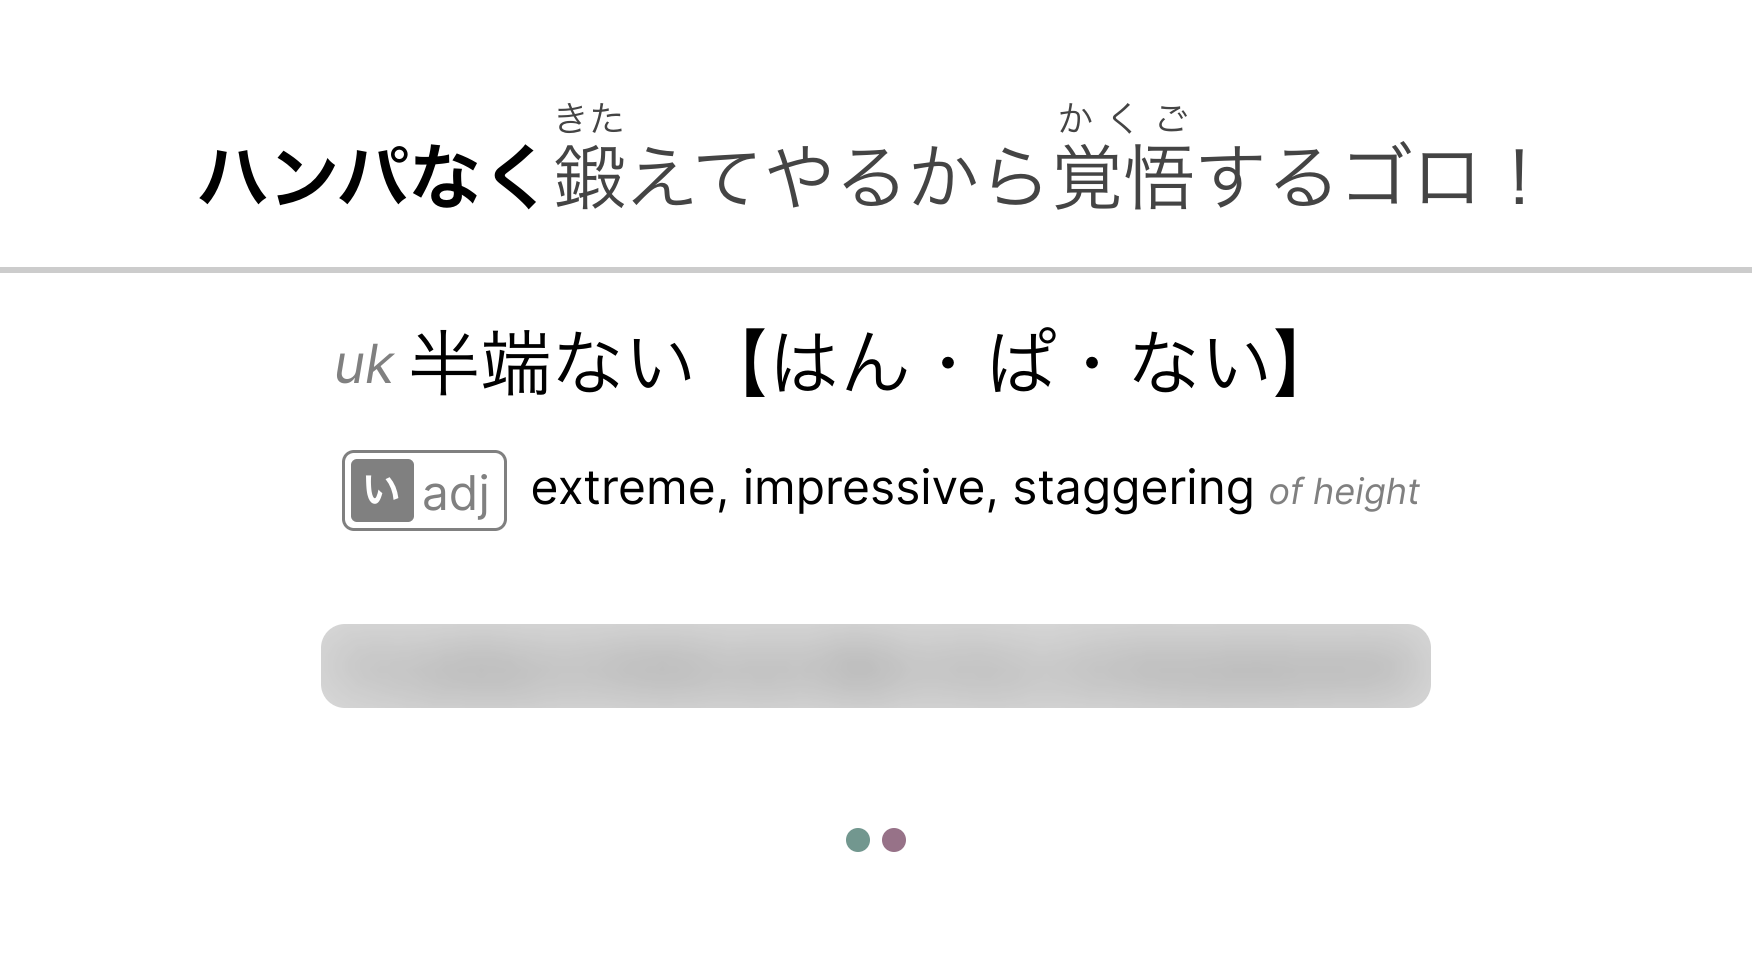
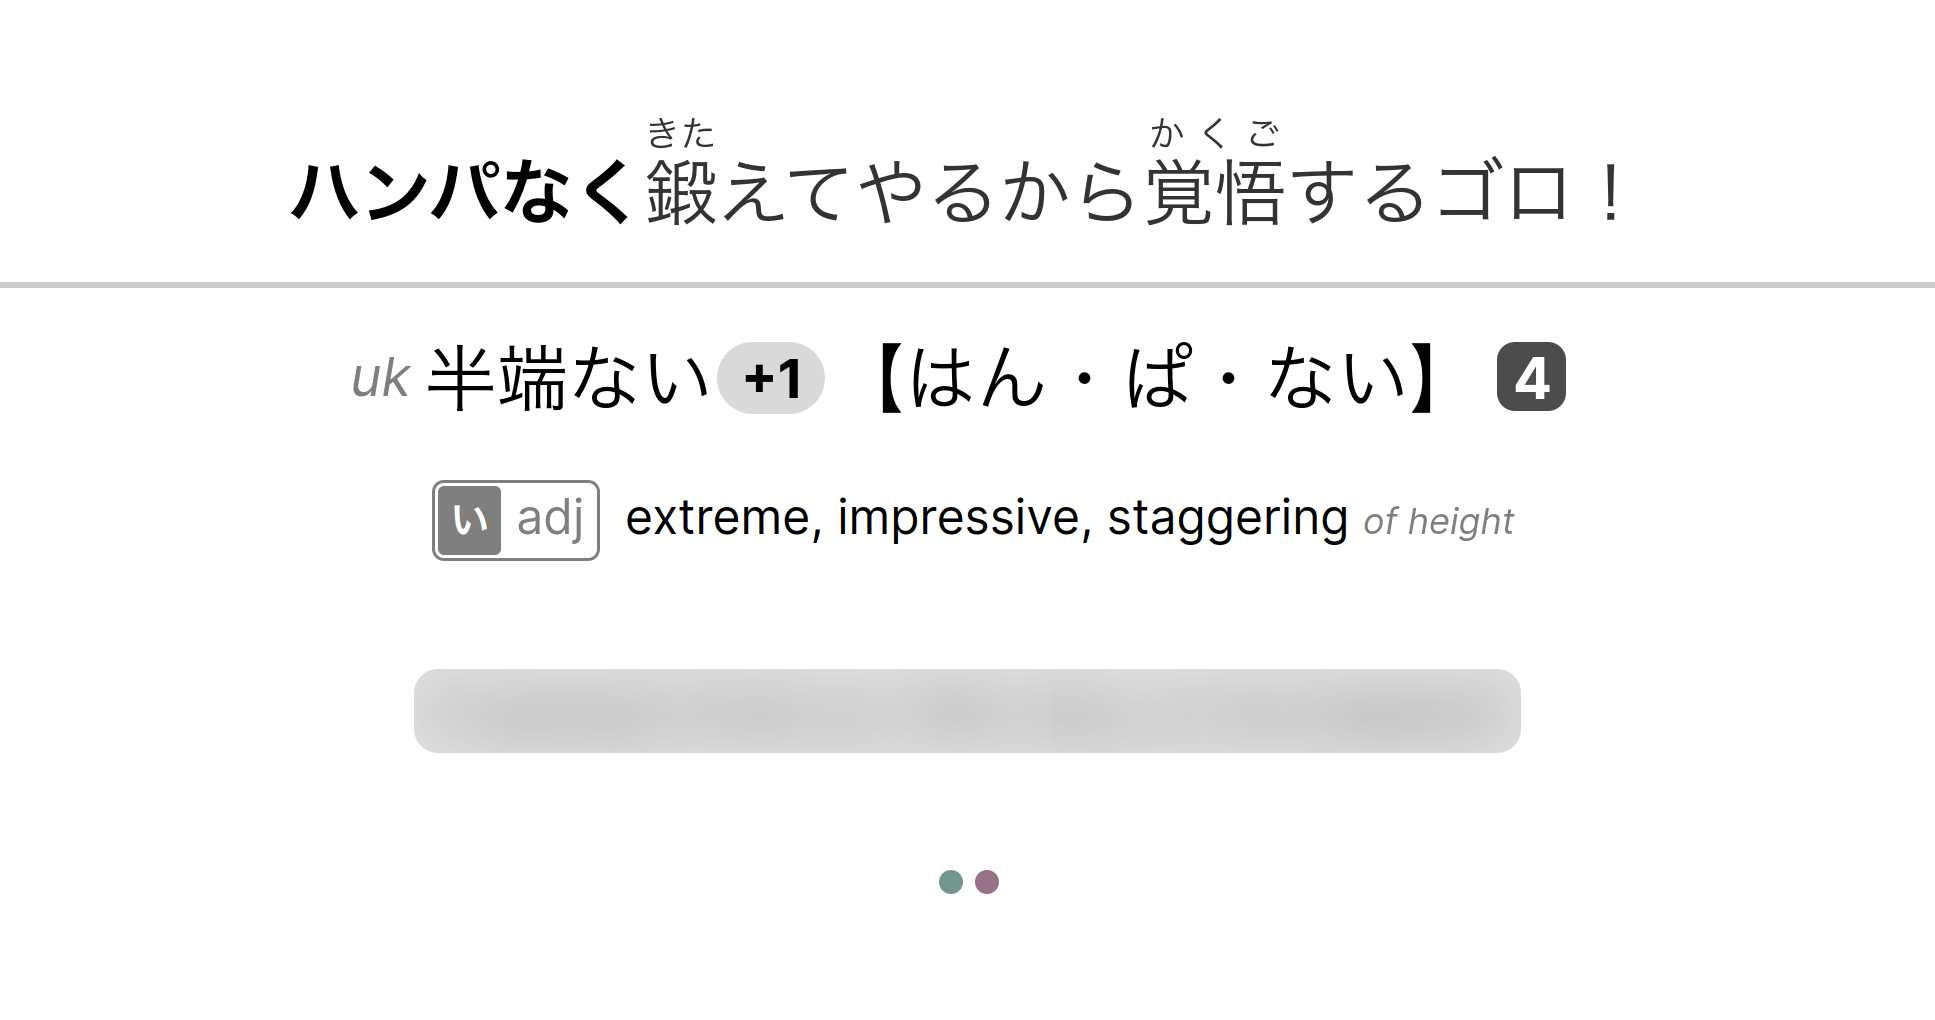
update readme

diff --git a/anki-card-template/readme.md b/anki-card-template/readme.md
@@ -9,9 +9,7 @@ that is visible on either both sides or only on the back side, spoilers,
 definition context hints, and word type indicators. it supports a vertical and
 horizontal layout, desktop and mobile, as well as light and dark themes.
 
-> currently, some css is slightly broken on the desktop version of anki, but
-> this should be fixed as qt merges a newer version of chromium (>= 105) into
-> the QTWebview library. this does not affect useability
+> animations are now working in desktop Anki >=2.1.62
 
 ## example
 
@@ -20,7 +18,7 @@ horizontal layout, desktop and mobile, as well as light and dark themes.
 |Field|Value|
 |-|-|
 |Complete sentence|`*ハンパなく*[鍛](きた)えてやるから[覚悟](かくご)するゴロ！`|
-|Target word reading|`半端ない【はん・ぱ・ない】(uk)`|
+|Target word reading|`半端ない、ハンパない【はん・ぱ・ない】[4] (uk)`|
 |Target word translation|`[い-adj] extreme, impressive, staggering {of height}`|
 |Complete sentence translation|`I'm going to train you like crazy, so be prepared!`|
 |Tags|`ゼルダの伝説 ブレス・オブ・ザ・ワイルド`|
@@ -29,14 +27,19 @@ horizontal layout, desktop and mobile, as well as light and dark themes.
 
 |![](../assets/card-front.png)|![](../assets/card-back-hidden.png)|![](../assets/card-back-visible.png)|
 |-|-|-|
-|front|back|spoiler & tag|
+|front|back|clicked sentence, hover tags, and hover reading|
+
+> Having a lot of information on a single card is generally discouraged, so the
+> sentence translation, tags and alternate writings are hidden by default and
+> can be shown when hovered/clicked.
 
 ## set-up
 
 i don't know how to create a teplate deck (if that's even a thing), so these
 are instructions to apply to an empty deck.
 
-1. run `make` to generate files
+1. run `make` to generate files (or download from [github
+   releases](https://github.com/lonkaars/refold-tools/releases))
 2. Under Tools > Manage note types > (note type here) > Fields, make sure the
    following fields exist (might be case-sensitive):
    | |name|description|
@@ -94,7 +97,7 @@ examples:
 |`\t`|(literal tab character)|
 |`\n`|html `<br>`|
 
-sensitive to the following characters: `[](){}`
+sensitive to the following characters: `*_`
 
 ### parse-furigana
 
@@ -112,8 +115,9 @@ sensitive to the following characters: `[](){}`
 
 ### parse-definitions
 
-parse list of definitions separated by commas, and convert text between curly
-brackets to subtile text. commas do not start a new definition inside subtile
+parse list of latin definitions separated by commas, or japanese definitions
+separated by japanese full stop, and convert text between curly brackets to
+subtile text. commas/full stops do not start a new definition inside subtile
 text and parenthesis, and are inserted normally.
 
 example:
@@ -121,13 +125,14 @@ example:
 |input|output|
 |-|-|
 |`word {subtile, or is it} (this is, a single item)\, and still is here, but not here`|<ul><li>word <i style="font-size: 70%">subtile, or is it</i> (this is, a single item), and still is here</li><li>but not here</li></ul>|
+|`単語定義１。定義２。`|<ul><li>単語定義１。</li><li>定義２。</li></ul>|
 
 in desktop horizontal, desktop vertical, and mobile horizontal layouts,
 definitions are displayed on a single line, separated by a comma. in the
 vertical mobile layout, items are separated by a short bar, and displayed in a
 vertical list.
 
-sensitive to the following characters: `{}(),`
+sensitive to the following characters: `{}(),。`
 
 ### parse-indicators
 
@@ -148,9 +153,17 @@ sensitive to the following characters: `[]-`
 
 parse reading field. start of input is tagged with class `kanji`, everything
 between lenticular brackets is tagged with class `reading`, note can be added
-with regular parenthesis (for marking if word is usually written as kanji).
+with regular parenthesis (for marking if word is usually written as kanji),
+pitch accent index can be added using square brackets. if a word is commonly
+written in multiple ways, they can be separated by a japanese comma.
 
-sensitive to the following characters: `【】()` (and line start)
+example (+1 marker expands to other readings when hovered/tapped):
+
+|input|output|
+|-|-|
+|`半端ない、ハンパない【はん・ぱ・ない】[4] (uk)`|![](../assets/reading-all.png)|
+
+sensitive to the following characters: `【】()・、` (and line start)
 
 ### parse-script
 

diff --git a/readme.md b/readme.md
@@ -7,3 +7,9 @@ this is a repo with language learning stuff:
 - [yomichan stuff](yomichan-user/readme.md)  
   (custom theme, sentence export/copy button plugin)
 
+todo:
+
+- yomichan handwriting popup/input like in google translate using
+  [handwriting.js](https://github.com/ChenYuHo/handwriting.js)
+- play audio for word in anki card template (download/stream/localStorage
+  cache?)
